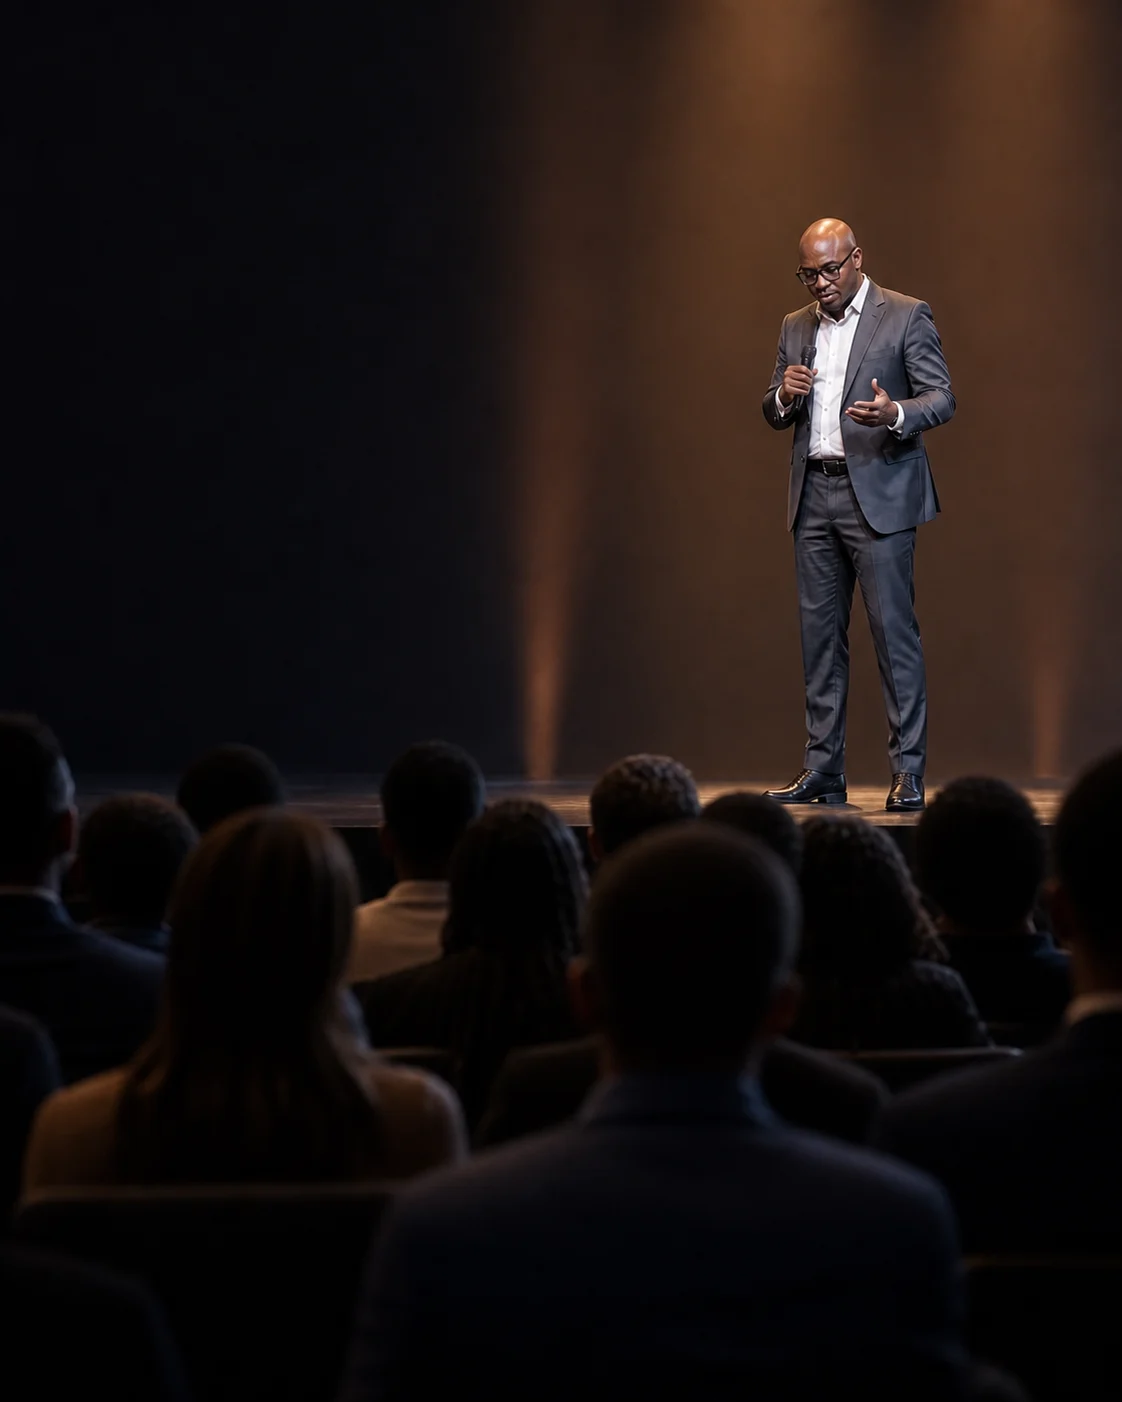
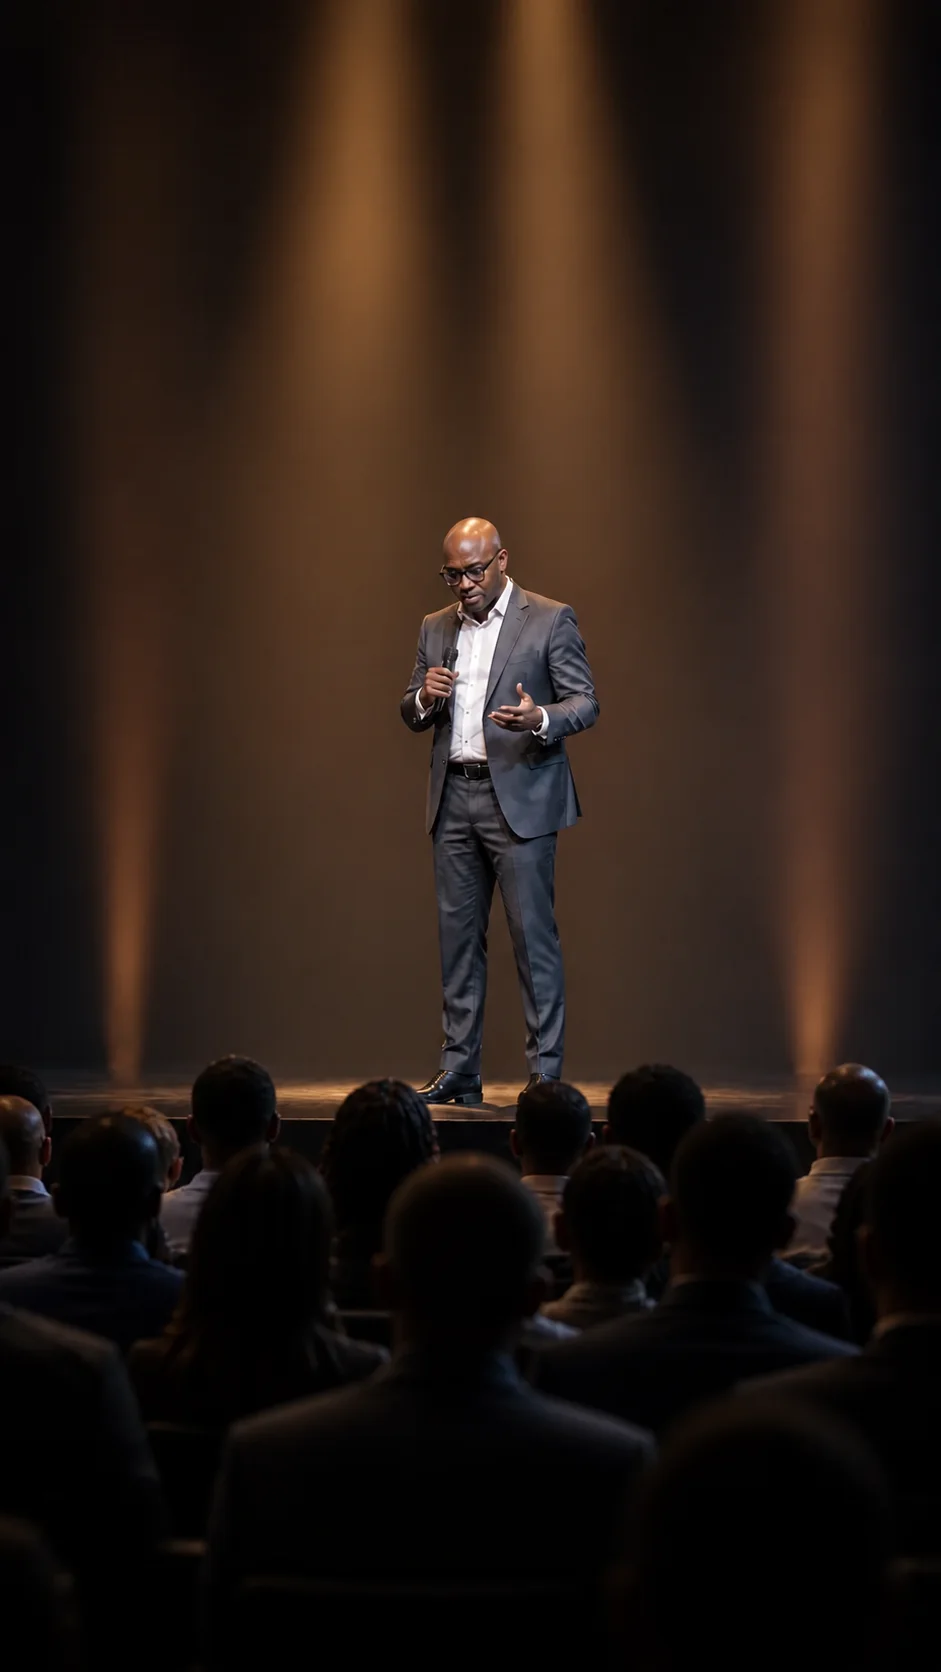
Align homepage hero and raise scroll cue

diff --git a/tests/evals/scroll-cue.eval.js b/tests/evals/scroll-cue.eval.js
@@ -2,24 +2,35 @@ const fs = require('node:fs')
 const path = require('node:path')
 
 const root = path.resolve(__dirname, '../..')
-const cue = fs.readFileSync(path.join(root, 'src/components/ui/ScrollCue/index.tsx'), 'utf8')
+const cue = fs.readFileSync(
+  path.join(root, 'src/components/ui/ScrollCue/index.tsx'),
+  'utf8'
+)
 const homeHero = fs.readFileSync(
   path.join(root, 'src/components/sections/home/Hero/index.tsx'),
-  'utf8',
+  'utf8'
 )
 const pageHero = fs.readFileSync(
   path.join(root, 'src/components/layout/PageHero/index.tsx'),
-  'utf8',
+  'utf8'
 )
 
 const checks = [
   ['cue tells visitors to continue', cue.includes('Scroll to explore')],
   ['cue includes a downward chevron', cue.includes('m6 9 6 6 6-6')],
-  ['animation respects reduced-motion preferences', cue.includes('motion-safe:animate-bounce')],
+  [
+    'animation respects reduced-motion preferences',
+    cue.includes('motion-safe:animate-bounce'),
+  ],
   ['homepage hero includes the cue', homeHero.includes('<ScrollCue />')],
   ['shared page heroes include the cue', pageHero.includes('<ScrollCue />')],
+  [
+    'cue is raised above the hero edge',
+    cue.includes('bottom-8') && cue.includes('sm:bottom-10'),
+  ],
 ]
 
 const failures = checks.filter(([, passed]) => !passed)
-for (const [name, passed] of checks) console.log(`${passed ? 'PASS' : 'FAIL'} ${name}`)
+for (const [name, passed] of checks)
+  console.log(`${passed ? 'PASS' : 'FAIL'} ${name}`)
 if (failures.length) process.exit(1)

diff --git a/tests/evals/home-hero.eval.js b/tests/evals/home-hero.eval.js
@@ -54,21 +54,22 @@ const checks = [
   ['images have responsive sizing', /sizes: '100vw'/.test(source)],
   [
     'mobile art direction is selected by media query',
-    /max-width: 639px/.test(source),
+    /max-width: 1023px/.test(source),
   ],
   [
     'mobile art direction uses the portrait image',
     source.includes('/images/salim/keynote-hero-mobile.webp'),
   ],
   [
-    'mobile crop protects Salim on the right',
-    /object-\[72%_center\]/.test(source),
+    'mobile portrait fills its matching frame',
+    /aspect-\[941\/1672\]/.test(source) &&
+      /object-cover object-center/.test(source),
   ],
   ['mobile contrast gradient is present', /bg-gradient-to-b/.test(source)],
   ['desktop contrast gradient is present', /lg:bg-gradient-to-r/.test(source)],
   [
-    'homepage hero stays within the visible viewport',
-    /h-\[100svh\]/.test(source),
+    'homepage desktop ratio matches its landscape artwork',
+    /lg:aspect-\[1672\/941\]/.test(source),
   ],
   [
     'hero has an accessible labelled region',

diff --git a/tests/e2e/home.spec.js b/tests/e2e/home.spec.js
@@ -40,7 +40,11 @@ test('keynote hero keeps Salim and primary actions visible on desktop', async ({
   ).toBeVisible()
 
   const heroBox = await hero.boundingBox()
-  expect(heroBox.height).toBeLessThanOrEqual(720)
+  const cueBox = await hero.getByText('Scroll to explore').boundingBox()
+  expect(heroBox.width / heroBox.height).toBeCloseTo(1672 / 941, 1)
+  expect(
+    heroBox.y + heroBox.height - (cueBox.y + cueBox.height)
+  ).toBeGreaterThanOrEqual(40)
 })
 
 test('landscape image remains visible in a desktop page hero', async ({
@@ -99,6 +103,9 @@ test('keynote hero remains usable at a narrow mobile viewport', async ({
   const heroBox = await hero.boundingBox()
   expect(heroBox.width).toBeLessThanOrEqual(375)
   expect(heroBox.height).toBeLessThanOrEqual(812)
+  expect(
+    await page.evaluate(() => document.documentElement.scrollWidth)
+  ).toBeLessThanOrEqual(375)
 })
 
 test('page hero sits behind navigation and fills the canvas', async ({

diff --git a/src/components/sections/home/Hero/index.tsx b/src/components/sections/home/Hero/index.tsx
@@ -24,15 +24,15 @@ export function Hero() {
   return (
     <section
       aria-labelledby="home-hero-title"
-      className="relative isolate flex h-[100svh] min-h-[620px] max-h-[720px] overflow-hidden bg-navy"
+      className="relative isolate flex w-full aspect-[941/1672] overflow-hidden bg-navy lg:aspect-[1672/941]"
       data-testid="home-hero"
     >
       <picture>
-        <source media="(max-width: 639px)" srcSet={mobileSrcSet} />
+        <source media="(max-width: 1023px)" srcSet={mobileSrcSet} />
         <img
           {...desktopImage}
           alt={alt}
-          className="object-cover object-[72%_center] sm:object-center"
+          className="object-cover object-center"
         />
       </picture>
 

diff --git a/src/components/ui/ScrollCue/index.tsx b/src/components/ui/ScrollCue/index.tsx
@@ -1,6 +1,6 @@
 export function ScrollCue() {
   return (
-    <div className="pointer-events-none absolute inset-x-0 bottom-4 z-20 flex justify-center sm:bottom-5">
+    <div className="pointer-events-none absolute inset-x-0 bottom-8 z-20 flex justify-center sm:bottom-10">
       <div className="flex flex-col items-center gap-1.5 text-gold drop-shadow-[0_1px_4px_rgba(0,0,0,0.65)]">
         <span className="text-[10px] font-semibold uppercase tracking-[0.24em] sm:text-xs">
           Scroll to explore

diff --git a/src/components/layout/PageHero/index.tsx b/src/components/layout/PageHero/index.tsx
@@ -42,7 +42,7 @@ export function PageHero({
 
   return (
     <section
-      className="relative isolate flex aspect-[941/1672] min-h-[680px] overflow-hidden bg-navy lg:aspect-[1672/941] lg:min-h-0"
+      className="relative isolate flex w-full aspect-[941/1672] overflow-hidden bg-navy lg:aspect-[1672/941]"
       data-testid="page-hero"
     >
       <picture>
